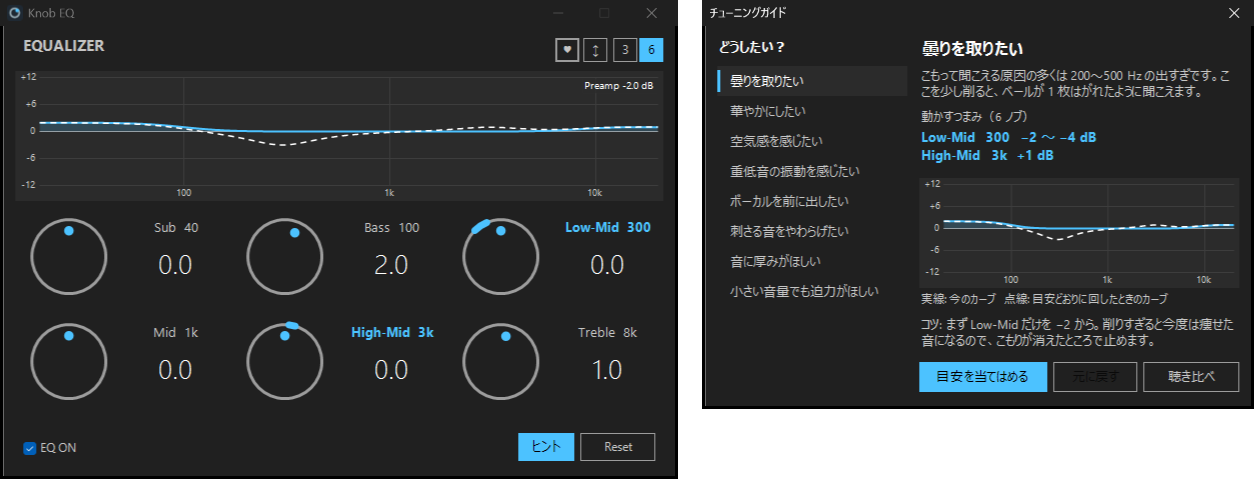
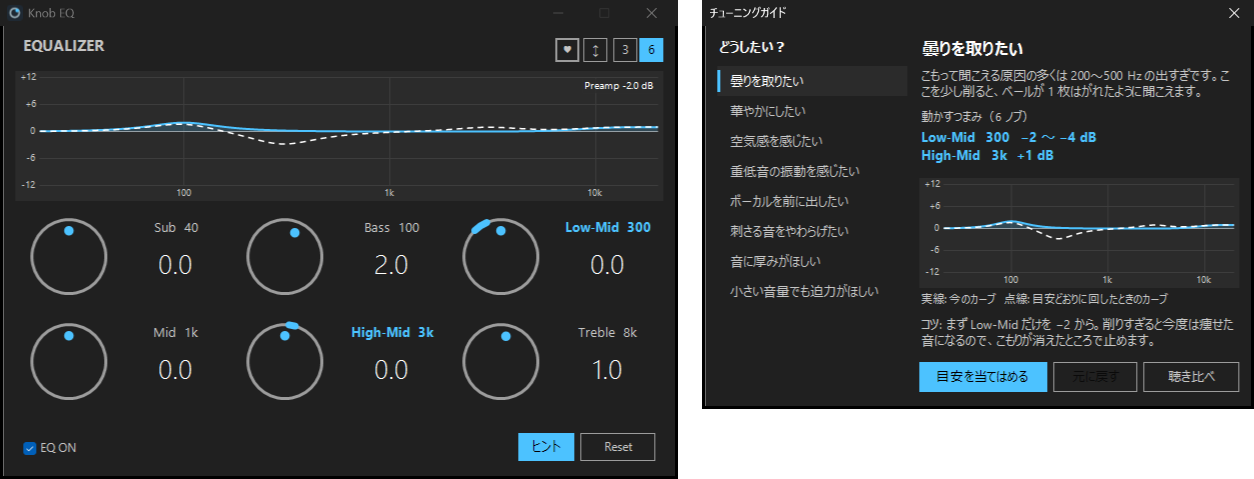
6 ノブモードの Bass を 100 Hz の山の形にする
6 ノブモードではいちばん低い帯域を Sub が受け持つので、Bass をローシェルフから
100 Hz を中心にしたピーキング (Q 1.0) にした。Sub と Bass の役割が分かれ、
重なって持ち上がりすぎることも減る。3 ノブモードの Bass は、低音全体を受け持つ
ローシェルフ (Q 0.5) のまま。

- Band にモードごとのフィルターの形 (ThreeFilter / ActiveFilter) を追加し、
  グラフの計算と Equalizer APO への書き出しで今のモードの形を使う
- チューニングガイド「小さい音量でも迫力がほしい」の 6 ノブの目安を
  Bass +3 / Treble +2 から Sub +2 / Bass +2 / Treble +2 に変更
  (Bass が山になり、いちばん低い帯域を持ち上げなくなったため)
- README のつまみの特性・モードの説明・目安の表を更新し、
  紹介用の画面写真と OGP 画像を撮り直した

Changed region(s): [[0.0311, 0.2338, 0.2799, 0.3215], [0.7464, 0.4384, 0.8708, 0.4969]]

diff --git a/src/KnobEQ.cs b/src/KnobEQ.cs
@@ -408,7 +408,8 @@ static class Recipes
             Title = T("小さい音量でも迫力がほしい", "Full sound at low volume"),
             Why = T("人の耳は、音量が小さいと低音と高音を感じにくくなります。両端を少し足すと、小音量でもバランスよく聞こえます。",
                     "At low volume our ears are less sensitive to bass and treble. Adding a little at both ends keeps the balance when you listen quietly."),
-            Six = new[] { A("Bass", 3), A("Treble", 2) },
+            // 6 ノブの Bass は 100 Hz の山なので、いちばん低い帯域は Sub で足す
+            Six = new[] { A("Sub", 2), A("Bass", 2), A("Treble", 2) },
             Three = new[] { A("Bass", 3), A("Treble", 2) },
             Tip6 = T("大きな音量に戻したら、つまみも戻すのがおすすめです。", "When you turn the volume back up, it's best to bring the knobs back too."),
             Tip3 = T("大きな音量に戻したら、つまみも戻すのがおすすめです。", "When you turn the volume back up, it's best to bring the knobs back too.") },
@@ -419,17 +420,22 @@ static class Recipes
 // 1 つのつまみが担当するフィルター
 class Band
 {
-    public string Name, Filter; // Filter は Equalizer APO の書式 ("LS", "PK", "HS")
+    public string Name, Filter; // Filter は Equalizer APO の書式 ("LS", "PK", "HS")。6 ノブモードの形
     public int Freq; public float Q;
     public bool InThree;  // 3 ノブモードでも表示するか
     public float ThreeQ;  // 3 ノブモードで使う Q（0 なら Q と同じ）
+    public string ThreeFilter; // 3 ノブモードで使うフィルターの形（null なら Filter と同じ）
     public float ActiveQ; // 今のモードで使う Q。シェルフで 0 なら Equalizer APO の標準の傾き
+    public string ActiveFilter; // 今のモードで使うフィルターの形
     public float Value6, Value3; // モードごとに覚えておく値 (dB)。つまみには今のモードの値を表示する
     public Knob Knob; public Label NameLabel, ValueLabel;
     // 画面に出す名前（例: "Low-Mid  300"、"Treble  8k"）
     public string DisplayName { get { return Name + "  " + (Freq >= 1000 ? (Freq / 1000) + "k" : Freq.ToString()); } }
-    public Band(string name, string filter, int freq, float q, bool inThree, float threeQ = 0f)
-    { Name = name; Filter = filter; Freq = freq; Q = q; InThree = inThree; ThreeQ = threeQ; ActiveQ = q; }
+    public Band(string name, string filter, int freq, float q, bool inThree, float threeQ = 0f, string threeFilter = null)
+    {
+        Name = name; Filter = filter; Freq = freq; Q = q; InThree = inThree; ThreeQ = threeQ; ThreeFilter = threeFilter;
+        ActiveQ = q; ActiveFilter = filter;
+    }
 }
 
 // 全バンドを合わせた周波数特性（どれだけ持ち上げ／下げているか）を描くグラフ
@@ -457,7 +463,7 @@ class ResponseGraph : Control
         double A = Math.Pow(10, gainDb / 40), w0 = 2 * Math.PI * b.Freq / Fs;
         double c = Math.Cos(w0), s = Math.Sin(w0);
         double b0, b1, b2, a0, a1, a2;
-        if (b.Filter == "PK")
+        if (b.ActiveFilter == "PK")
         {
             double al = s / (2 * b.ActiveQ);
             b0 = 1 + al * A; b1 = -2 * c; b2 = 1 - al * A;
@@ -468,7 +474,7 @@ class ResponseGraph : Control
             // Q の指定が無い LS / HS は Q 0.707 相当の傾きとして描く
             double q = b.ActiveQ > 0 ? b.ActiveQ : Math.Sqrt(0.5);
             double al = s / (2 * q), sq = 2 * Math.Sqrt(A) * al;
-            if (b.Filter == "LS")
+            if (b.ActiveFilter == "LS")
             {
                 b0 = A * ((A + 1) - (A - 1) * c + sq); b1 = 2 * A * ((A - 1) - (A + 1) * c); b2 = A * ((A + 1) - (A - 1) * c - sq);
                 a0 = (A + 1) + (A - 1) * c + sq;       a1 = -2 * ((A - 1) + (A + 1) * c);    a2 = (A + 1) + (A - 1) * c - sq;
@@ -818,7 +824,8 @@ class MainForm : Form
         new Band("High-Mid", "PK", 3000, 1.0f, false),
         new Band("Mid",      "PK", 1000, 1.0f, true, 0.7f),
         new Band("Low-Mid",  "PK", 300,  1.0f, false),
-        new Band("Bass",     "LS", 100,  0f,   true, 0.5f),
+        // Bass は 6 ノブでは 100 Hz の山（いちばん低い帯域は Sub が担当）、3 ノブでは低音全体を受け持つ棚の形
+        new Band("Bass",     "PK", 100,  1.0f, true, 0.5f, "LS"),
         new Band("Sub",      "PK", 40,   1.0f, false),
     };
 
@@ -1210,6 +1217,7 @@ class MainForm : Form
         {
             Band b = bands[horizontal ? bands.Length - 1 - i : i];
             b.ActiveQ = threeMode && b.ThreeQ > 0 ? b.ThreeQ : b.Q;
+            b.ActiveFilter = threeMode && b.ThreeFilter != null ? b.ThreeFilter : b.Filter;
             bool show = IsActive(b);
             b.Knob.Visible = b.NameLabel.Visible = b.ValueLabel.Visible = show;
             if (!show) continue;
@@ -1415,7 +1423,7 @@ class MainForm : Form
                 Band b = bands[i];
                 if (!IsActive(b)) continue; // 3 ノブモードでは隠れているつまみを効かせない
                 // Q を指定するシェルフは LSC / HSC と書く
-                string type = b.Filter != "PK" && b.ActiveQ > 0 ? b.Filter + "C" : b.Filter;
+                string type = b.ActiveFilter != "PK" && b.ActiveQ > 0 ? b.ActiveFilter + "C" : b.ActiveFilter;
                 string line = "Filter: ON " + type + " Fc " + b.Freq + " Hz Gain " + Fmt(b.Knob.Value) + " dB";
                 if (b.ActiveQ > 0) line += " Q " + b.ActiveQ.ToString("0.0##", CultureInfo.InvariantCulture);
                 sb.AppendLine(line);

diff --git a/README.md b/README.md
@@ -69,7 +69,7 @@ A simple knob-style equalizer for Windows, powered by Equalizer APO. → [Englis
 | ボーカルを前に出したい | High-Mid +2、Mid +1、Low-Mid −1 | Mid +2 |
 | 刺さる音をやわらげたい | High-Mid −2〜−3、Treble −1〜−2 | Treble −2、Mid −1 |
 | 音に厚みがほしい | Low-Mid +2、Bass +1 | Bass +2、Mid +1 |
-| 小さい音量でも迫力がほしい | Bass +3、Treble +2 | Bass +3、Treble +2 |
+| 小さい音量でも迫力がほしい | Sub +2、Bass +2、Treble +2 | Bass +3、Treble +2 |
 
 目安はあくまで出発点です。当てはめたあとは、聴きながら好みに合わせて調整してください。
 
@@ -103,6 +103,8 @@ A simple knob-style equalizer for Windows, powered by Equalizer APO. → [Englis
 - **3 ノブモード**：Treble / Mid / Bass の 3 つだけを使います。
   3 つで全帯域を受け持つため、Bass と Treble はシェルフの傾きをゆるやかに（Q 0.5）、
   Mid は効く幅を広く（Q 0.7）しています。
+  6 ノブモードの Bass は 100 Hz を中心にした山の形で、それより低い帯域は Sub が受け持ちます。
+  3 ノブモードの Bass は、低音全体をまとめて持ち上げる棚の形（ローシェルフ）です。
 - つまみの値はモードごとに別々に保存されます。切り替えると、そのモードで前回設定した値に戻ります。
   一方のモードでつまみを回したり Reset したりしても、もう一方のモードの値は変わりません。
 
@@ -111,7 +113,7 @@ A simple knob-style equalizer for Windows, powered by Equalizer APO. → [Englis
 | つまみ | フィルター | 周波数 | 3 ノブモード |
 |---|---|---|---|
 | Sub | ピーキング (Q 1.0) | 40 Hz | 使わない |
-| Bass | ローシェルフ | 100 Hz | ○（Q 0.5） |
+| Bass | ピーキング (Q 1.0) | 100 Hz | ○（ローシェルフ Q 0.5） |
 | Low-Mid | ピーキング (Q 1.0) | 300 Hz | 使わない |
 | Mid | ピーキング (Q 1.0) | 1 kHz | ○（Q 0.7） |
 | High-Mid | ピーキング (Q 1.0) | 3 kHz | 使わない |
